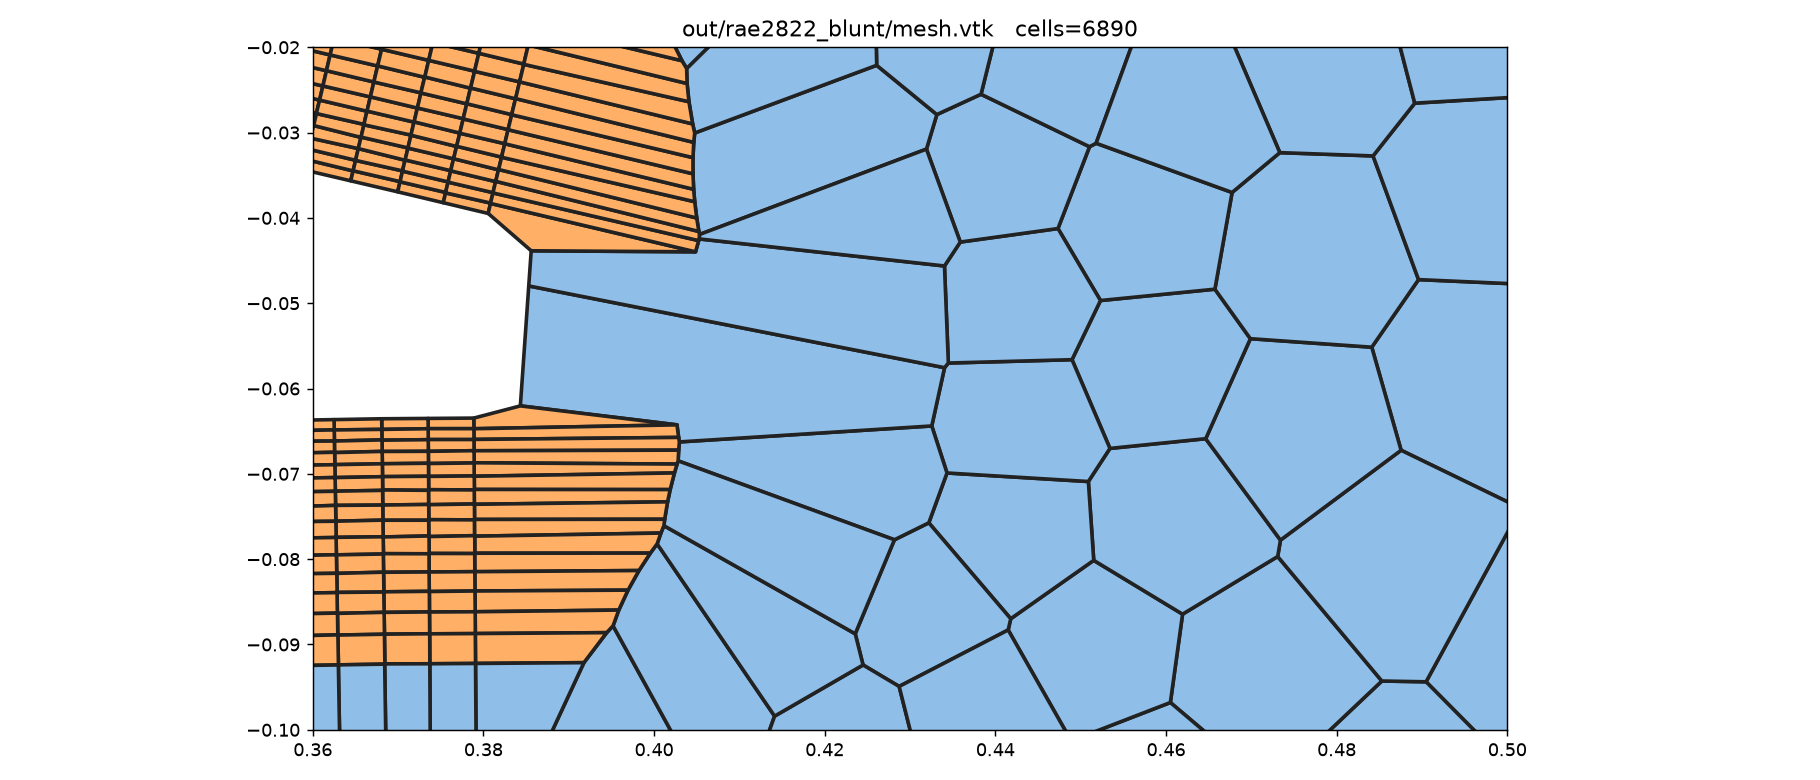
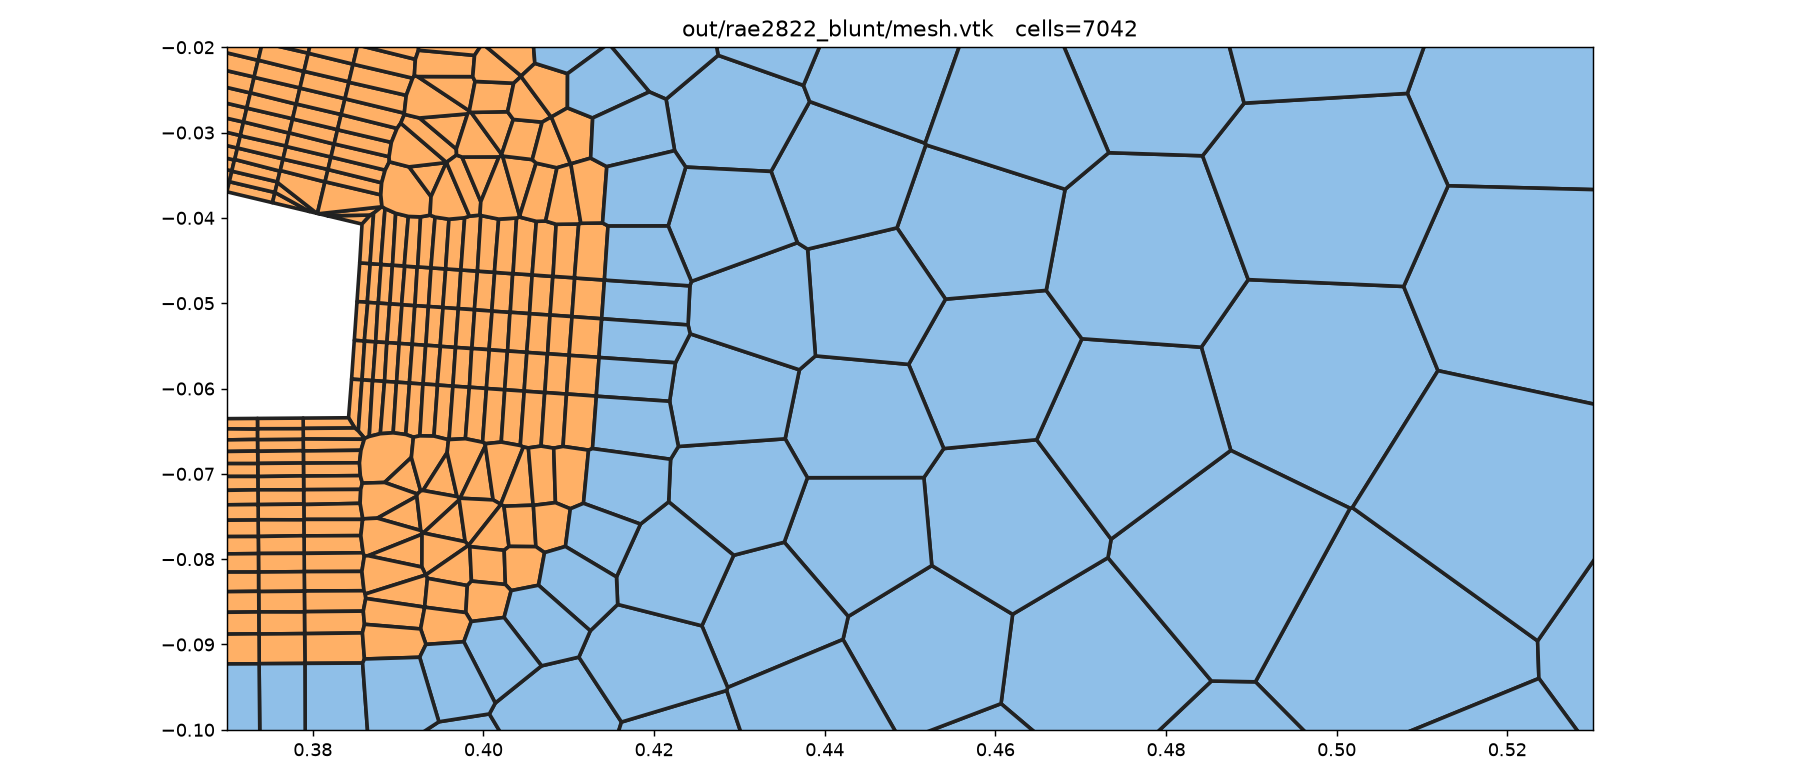
Blunt TE: subdivide the base into N cells with a structured wake block
Give AirfoilShape generators a baseCells parameter that subdivides the blunt TE
base into N segments; prism then grows on the base (N columns) into a short
structured wake block that the transition ring caps 1:1 with the polyhedral
core. This puts a controlled number of elements (here 5) across the trailing
edge with the mesh connecting to them, instead of a single messy base cell.
A small irregular zone remains where the three boundary layers meet.

Meshes still pass polyMesh validation.

Claude-Session: https://claude.ai/code/session_01H7fb4XKKcHpsxCit9RfSzp

diff --git a/src/main.cpp b/src/main.cpp
@@ -300,33 +300,19 @@ static void caseDuct() {
 static void runAirfoil(const std::string& name, const AirfoilShape& s) {
     Domain dom;
     dom.addCircle({0, 0}, 5.0, "farfield", 0.35, /*hole*/ false);
+    // Prism grows continuously around the whole contour, including the (already
+    // subdivided) blunt TE base -> a short structured wake block whose cells the
+    // transition ring caps 1:1 with the polyhedral core.
     PrismSpec afPrism{15, 0.0012, 1.06};
     dom.addPolyLoop(s.pts, "airfoil", /*hole*/ true, 0.006, afPrism);
-    if (s.bluntTE) {
-        const Vec2 teU = s.teU, teL = s.teL;
-        auto same = [](const Vec2& p, const Vec2& q) { return dist(p, q) < 1e-9; };
-        dom.loops.back().prismSkip = [=](const Vec2& a, const Vec2& b) {
-            return (same(a, teU) && same(b, teL)) || (same(a, teL) && same(b, teU));
-        };
-    }
     dom.build();
 
     const int afLoop = 1;
     const double band = afPrism.totalThickness(), hWall = 0.006;
-    // For a blunt TE, resolve the base with ~5 cells across (refine the size
-    // field near the base to base_thickness / 5).
-    const bool blunt = s.bluntTE;
-    const Vec2 baseMid = blunt ? Vec2{(s.teU.x + s.teL.x) * 0.5, (s.teU.y + s.teL.y) * 0.5} : Vec2{};
-    const double baseH = blunt ? dist(s.teU, s.teL) : 0.0;
     Mesher::Options mo;
-    mo.sizeField = [&dom, afLoop, band, hWall, blunt, baseMid, baseH](Vec2 p) {
-        double h = std::clamp(hWall + 0.13 * std::max(0.0, dom.distanceToLoop(p, afLoop) - band),
-                              hWall, 0.6);
-        if (blunt) {                              // ~5 cells across the TE base
-            const double target = baseH / 5.0, db = dist(p, baseMid);
-            h = std::min(h, db < 0.6 * baseH ? target : target + 0.3 * (db - 0.6 * baseH));
-        }
-        return h;
+    mo.sizeField = [&dom, afLoop, band, hWall](Vec2 p) {
+        return std::clamp(hWall + 0.13 * std::max(0.0, dom.distanceToLoop(p, afLoop) - band),
+                          hWall, 0.6);
     };
     mo.lloydIters = 5;
     mo.transitionRing = true;
@@ -341,10 +327,10 @@ static void caseProfiles() {
     const double chord = 1.0, aoa = 4.0;
     const Vec2 le{-0.5, 0.0};
     runAirfoil("naca4412_sharp", placeAirfoil(naca4(4, 4, 12, 160, 1.00), chord, le, aoa));
-    runAirfoil("naca4412_blunt", placeAirfoil(naca4(4, 4, 12, 160, 0.95), chord, le, aoa));
+    runAirfoil("naca4412_blunt", placeAirfoil(naca4(4, 4, 12, 160, 0.95, /*baseCells*/ 5), chord, le, aoa));
     AirfoilShape rae = loadSeligDat("data/rae2822.dat");
     runAirfoil("rae2822_sharp", placeAirfoil(rae, chord, le, aoa));
-    runAirfoil("rae2822_blunt", placeAirfoil(truncateTE(rae, 0.90), chord, le, aoa));
+    runAirfoil("rae2822_blunt", placeAirfoil(truncateTE(rae, 0.90, /*baseCells*/ 5), chord, le, aoa));
 }
 
 int main(int argc, char** argv) {

diff --git a/include/poly2d/Airfoils.hpp b/include/poly2d/Airfoils.hpp
@@ -28,8 +28,14 @@ struct AirfoilShape {
     Vec2 teU{}, teL{};         // trailing-edge corners (blunt TE only)
 };
 
+inline Vec2 lerp(const Vec2& a, const Vec2& b, double t) {
+    return {a.x + (b.x - a.x) * t, a.y + (b.y - a.y) * t};
+}
+
 // Cambered NACA 4-digit. camber m [%], position p [tenths], thickness t [%].
-inline AirfoilShape naca4(int mI, int pI, int tI, int nPerSide, double teCut = 1.0) {
+// baseCells: number of segments across a blunt TE base (>=1).
+inline AirfoilShape naca4(int mI, int pI, int tI, int nPerSide, double teCut = 1.0,
+                          int baseCells = 1) {
     const double m = mI / 100.0, p = pI / 10.0, t = tI / 100.0;
     auto yt = [&](double x) {
         return 5.0 * t * (0.2969 * std::sqrt(x) - 0.1260 * x - 0.3516 * x * x +
@@ -53,6 +59,9 @@ inline AirfoilShape naca4(int mI, int pI, int tI, int nPerSide, double teCut = 1
     AirfoilShape s;
     s.bluntTE = blunt;
     for (int i = 0; i <= nPerSide; ++i) s.pts.push_back(up[i]);            // LE -> TE (upper)
+    if (blunt)                                                            // subdivide base
+        for (int k = 1; k < baseCells; ++k)
+            s.pts.push_back(lerp(up[nPerSide], lo[nPerSide], (double)k / baseCells));
     for (int i = (blunt ? nPerSide : nPerSide - 1); i >= 1; --i) s.pts.push_back(lo[i]);
     if (blunt) { s.teU = up[nPerSide]; s.teL = lo[nPerSide]; }
     return s;
@@ -79,13 +88,16 @@ inline AirfoilShape loadSeligDat(const std::string& path) {
 }
 
 // Clip a local-coordinate contour at x = teCut -> small blunt trailing edge.
-inline AirfoilShape truncateTE(const AirfoilShape& in, double teCut) {
+// baseCells: number of segments across the base (>=1).
+inline AirfoilShape truncateTE(const AirfoilShape& in, double teCut, int baseCells = 1) {
     AirfoilShape s;
     for (const auto& p : in.pts) if (p.x <= teCut) s.pts.push_back(p);
     if (s.pts.size() < 3) return in;
     s.bluntTE = true;
     s.teU = s.pts.front();   // first kept (upper, x~teCut)
     s.teL = s.pts.back();    // last kept (lower, x~teCut)
+    for (int k = 1; k < baseCells; ++k)         // subdivide the closing base teL->teU
+        s.pts.push_back(lerp(s.teL, s.teU, (double)k / baseCells));
     return s;
 }
 

diff --git a/README.md b/README.md
@@ -52,9 +52,14 @@ Spuštění: `./build/poly2d profiles` → `out/naca4412_{sharp,blunt}`,
 |:---:|:---:|
 | ![4412](docs/images/naca4412.png) | ![RAE2822](docs/images/rae2822.png) |
 
-| RAE 2822 — ostrá TE | NACA 4412 — tupá TE |
+| RAE 2822 — ostrá TE | NACA 4412 — tupá TE (báze na 5 elementů) |
 |:---:|:---:|
 | ![RAE TE](docs/images/rae2822_te.png) | ![4412 blunt](docs/images/naca4412_blunt_te.png) |
+
+Tupá TE: báze je rozdělená na zadaný počet elementů (`baseCells`, zde 5), na
+kterých roste krátký strukturovaný prism blok napojený 1:1 na polyhedra. (V místě,
+kde se sbíhají mezní vrstvy z horní/spodní plochy a báze, zůstává malá nepravidelná
+přechodová zóna — daň za offsetový přístup bez dedikované TE topologie.)
 
 **Obdélníkový kanál 50 × 15 cm s válcem ⌀ 4 cm**
 
